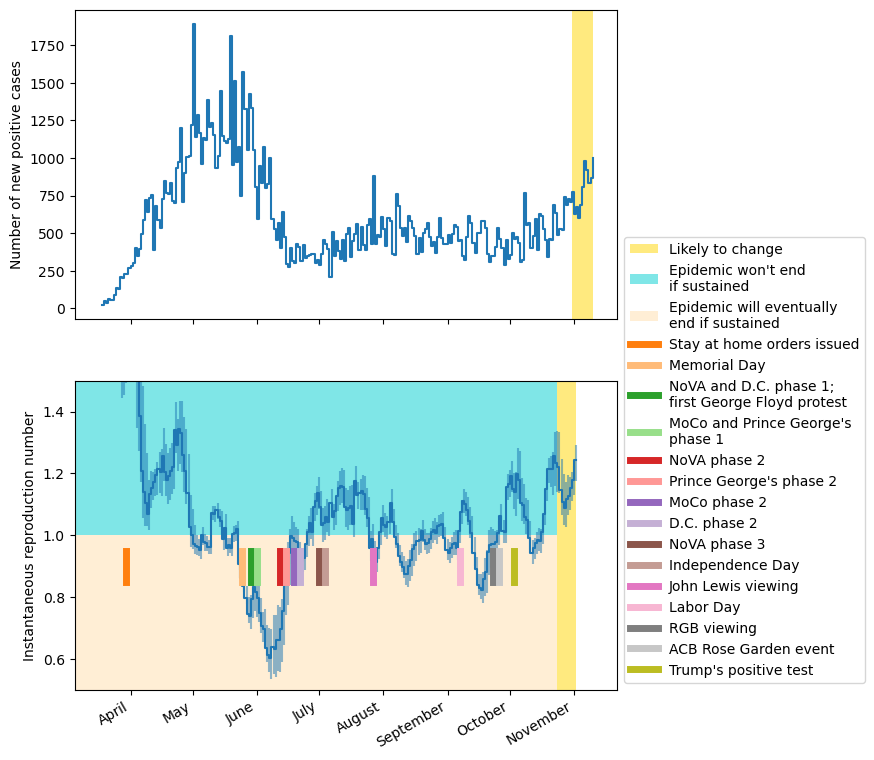
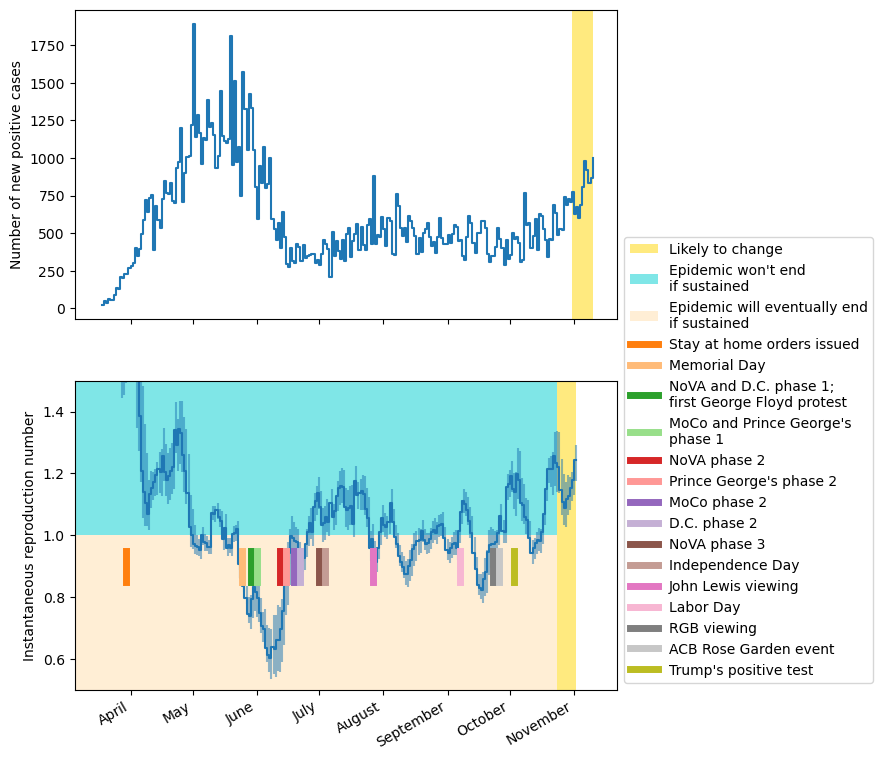
OK really

diff --git a/plot_incid_repro.py b/plot_incid_repro.py
@@ -65,7 +65,7 @@ ax2.axhspan(1, 1.5, xmax=lim_transform.transform((date2num(last_repro), 0))[0],
             label="Epidemic won't end\nif sustained")
 ax2.axhspan(0.5, 1, xmax=lim_transform.transform((date2num(last_repro), 0))[0],
             facecolor="navajowhite", alpha=0.5,
-            label="Epidemic will eventually\nend if sustained")
+            label="Epidemic will eventually end\nif sustained")
 
 handles, labels = ax2.get_legend_handles_labels()
 handles = [handles[-3]] + handles[-2:] + handles[:-3]
